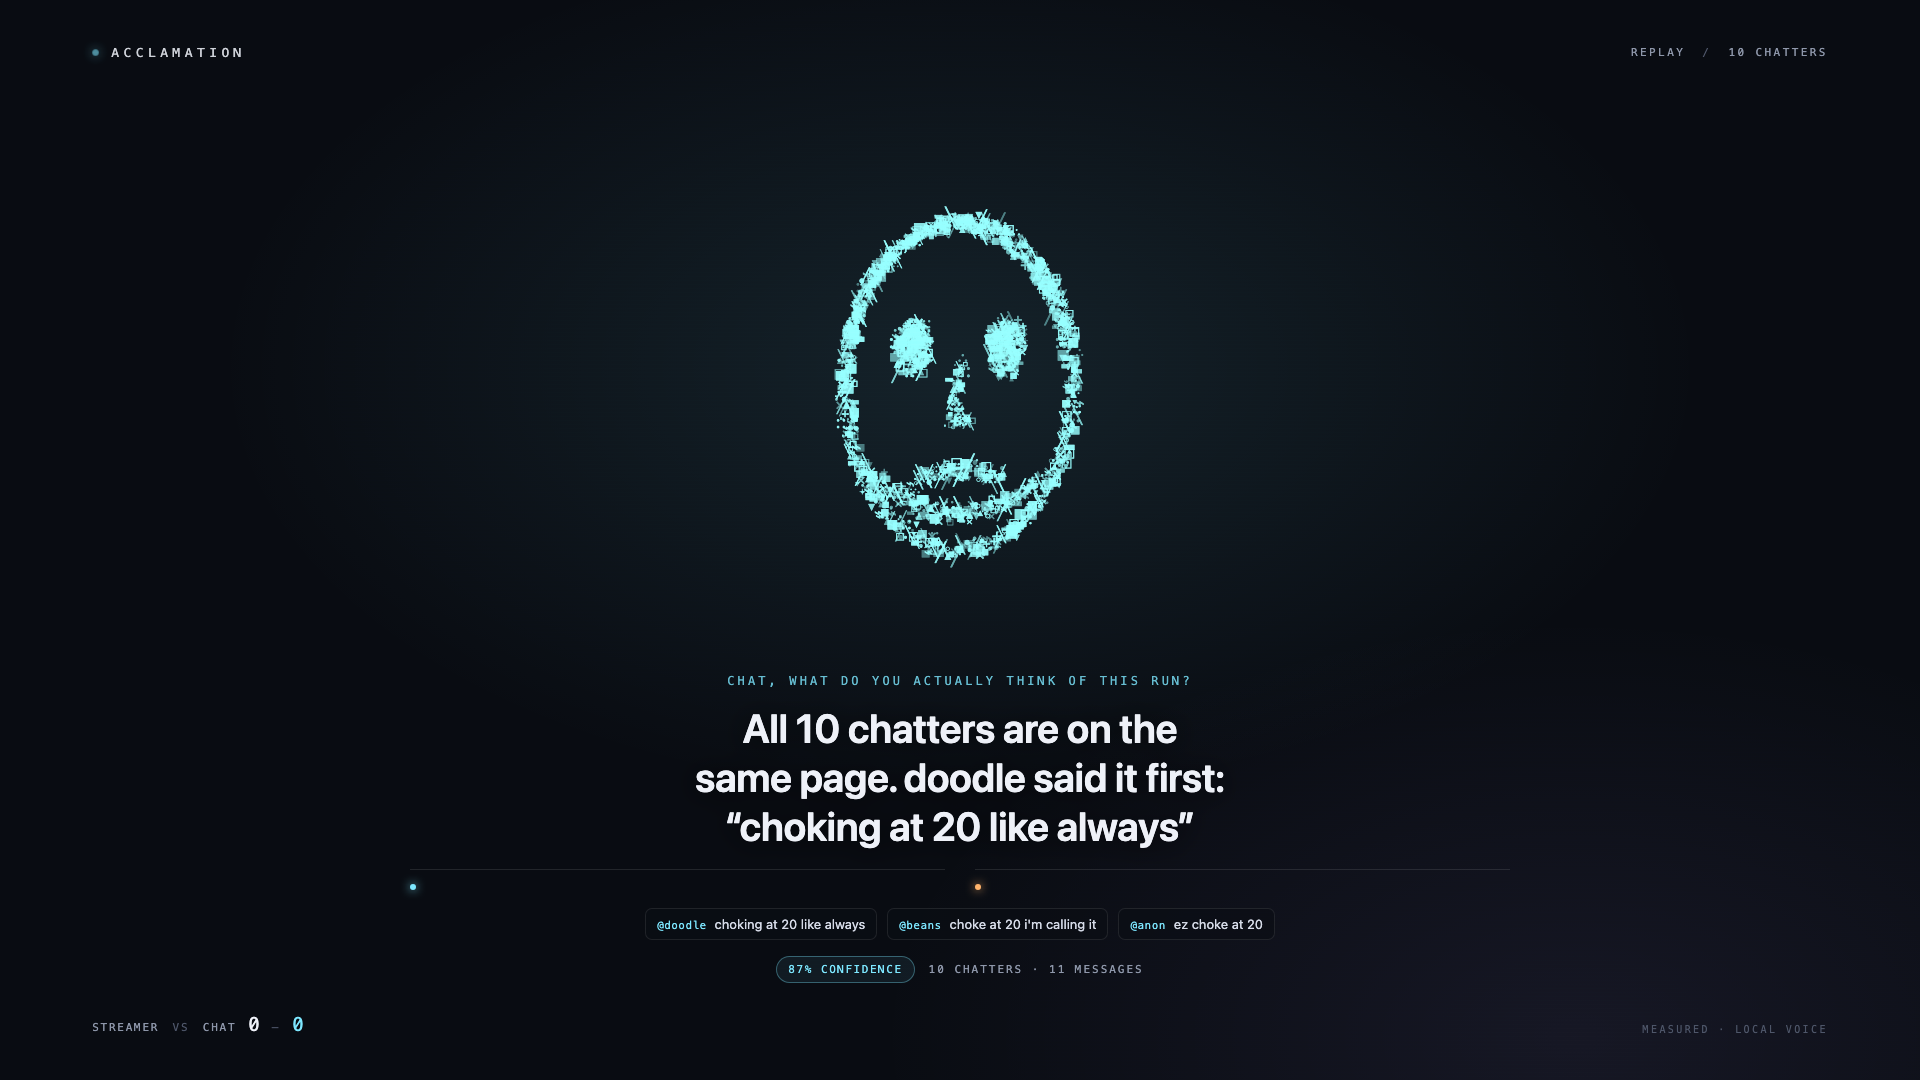
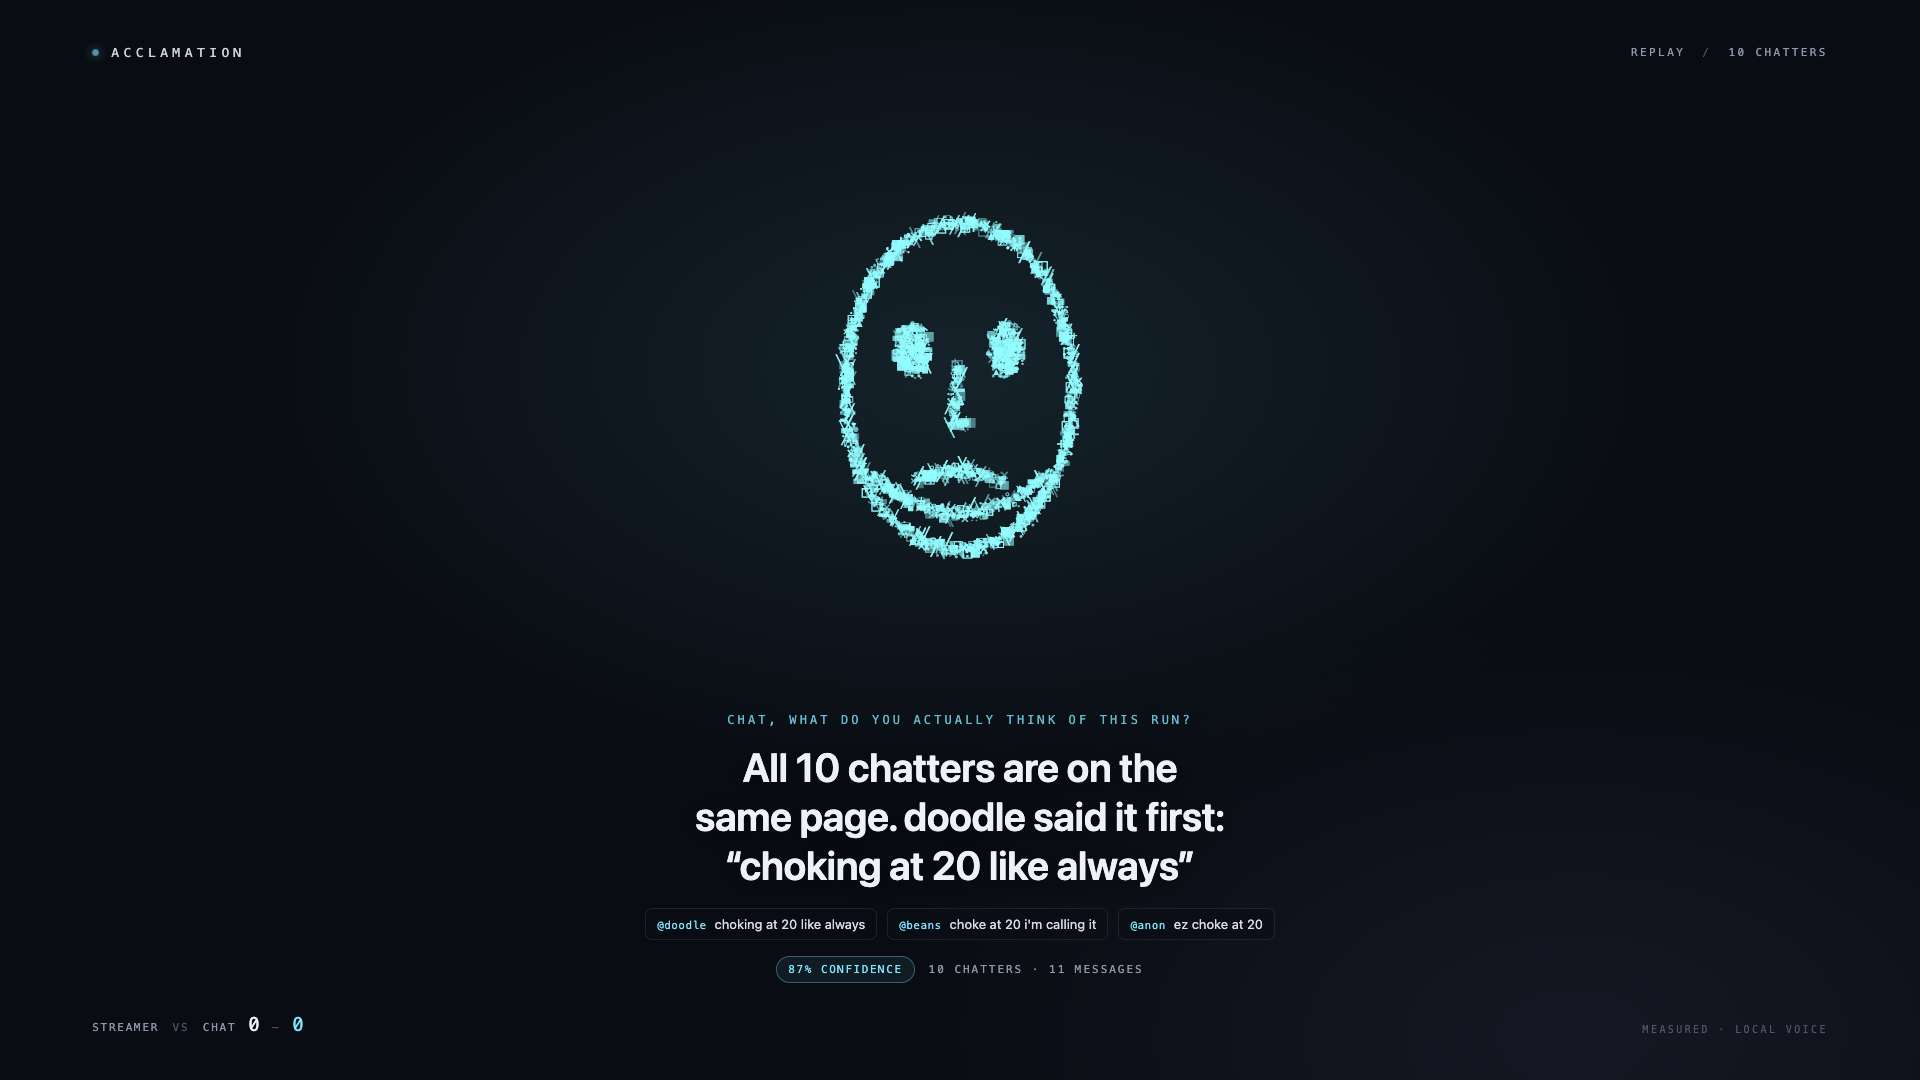
fix(overlay): cover the whole face mask when particles < sampled points
Small viewports (720p OBS output) have fewer particles than the mask has
sampled points. Particles indexed the point array row-by-row, so only the top
rows were ever drawn — the face rendered as an arch. Shuffle the sampled points
once and raise the floor a little; the mask now fills at 720p and 1080p.

Refresh the committed captures from the fixed code.

Changed region(s): [[0.3438, 0.6417, 0.6562, 0.825], [0.4375, 0.1833, 0.5625, 0.5194]]

diff --git a/overlay/face.js b/overlay/face.js
@@ -83,7 +83,7 @@ function resize() {
 
 function particleCount() {
   const area = view.w * view.h;
-  return Math.max(650, Math.min(2000, Math.round(area / 1050)));
+  return Math.max(800, Math.min(2000, Math.round(area / 950)));
 }
 
 function buildParticles() {
@@ -161,6 +161,14 @@ function buildFacePoints() {
         points.push({ nx: (x - W / 2) / (W / 2), ny: (y - H / 2) / (H / 2) });
       }
     }
+  }
+
+  // Shuffle so a particle count smaller than the sampled point count still
+  // covers the whole face. Without this, particles index row-by-row and small
+  // viewports only ever render the top half of the mask.
+  for (let i = points.length - 1; i > 0; i -= 1) {
+    const j = Math.floor(Math.random() * (i + 1));
+    [points[i], points[j]] = [points[j], points[i]];
   }
   state.facePoints = points;
 }
